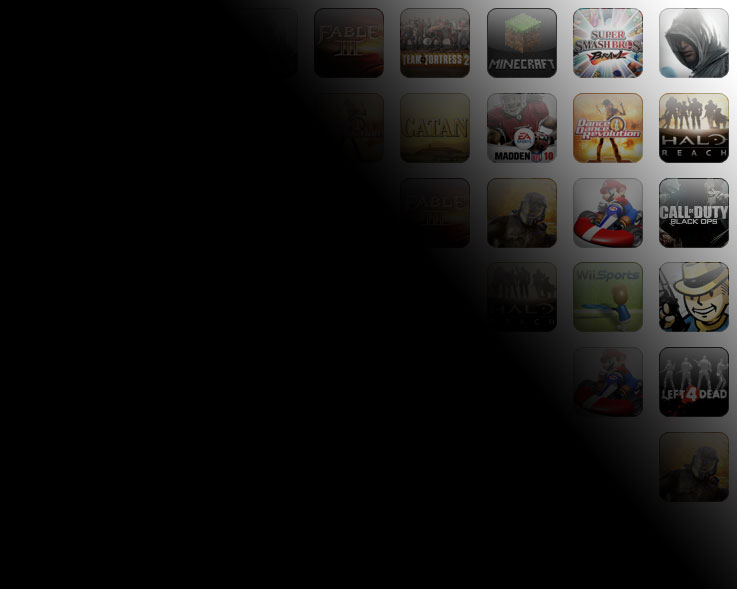
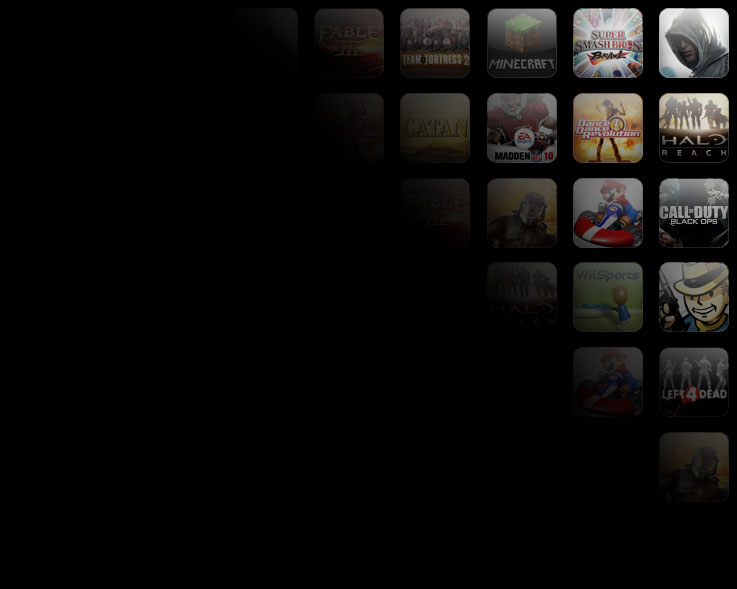
Continued work on play page
Integrated a better version of the game icons and continued work styling the play page.

Changed region(s): [[0.3745, 0.0, 1.0, 0.9474]]

diff --git a/play.html b/play.html
@@ -15,9 +15,10 @@
             </nav>
         </header>
         <div class="main" id="main-play">
-            <section>
+            <div id="game-img"></div>
+            <section>                
                 <h1>Come play games with us!</h1>
-                <p>Bring a small donation, and play games with us all night! We&#39ll provide consoles, computers, and some pizza -- you just have to show up. Don&#39t forget to bring some extra cash, cause we&#39ll be selling caffeinated beverages!</p>
+                <p id="playsec1">Bring a small donation, and play games with us all night! We&#39ll provide consoles, computers, and some pizza -- you just have to show up. Don&#39t forget to bring some extra cash, cause we&#39ll be selling caffeinated beverages!</p>
 
                 <time>5:00pm <a href="#">November 11th</a> - 5:00pm <a href="#">November 12th</a></time>
 
@@ -25,9 +26,9 @@
                 Grand Rapids MI, 49503<br /> 
                     <a class="special" href="#">View map</a></address>
                 <h1>Under 18?</h1>
-                <p>Please print out <a class="special" href="#">this PDF form</a> and have your parents fill it out!</p>
+                <p id="playsec2">Please print out <a class="special" href="#">this PDF form</a> and have your parents fill it out!</p>
                 <h1>Let us know when you’re coming:</h1>
-                <p>If you can fill out this form, we&#39ll know how much pizza to buy and how many consoles to bring!</p>
+                <p id="playsec3">If you can fill out this form, we&#39ll know how much pizza to buy and how many consoles to bring!</p>
                 <form>                    
                     <table>
                         <tr>
@@ -122,7 +123,6 @@
                         </tr>
                     </table>
                 </form>
-                <div id="game-img"></div>
             </section>
             <div class="white"></div>
         </div>

diff --git a/styles/main.css b/styles/main.css
@@ -108,6 +108,10 @@ a {
 
 #main-play {
     
+    padding-top: 60px; 
+    padding-left: 20px; 
+    padding-right: 20px; 
+    padding-bottom: 20px;
 }
 
 .main{
@@ -132,7 +136,7 @@ a {
     
     border: 1px solid #ffffff40;
     border-radius: 10px;
-    z-index: -1;
+    z-index: -2;
 }
 
 #sec1 p{
@@ -186,6 +190,20 @@ a {
 
 table{
     background: #321000;
+    border: 1px solid #99771c;
+    border-radius: 5px;
+    margin: 0px;
+    width: 820px;
+    height: 350px;
+    border-spacing: 20px;
+}
+
+table h1{
+    font-family: "Helvetica", "Arial", sans-serif;
+    font-style: normal;
+    font-size: 14px;
+    font-weight: bold;
+    color: #9ad2ff;
 }
 
 select, input {
@@ -208,4 +226,43 @@ select, input {
 #submit:hover{
     background-position: right top;
     background-position: 79px 0px;
+}
+
+tr, th{
+    padding:0px;
+    margin: 0px;
+}
+
+th{
+    border-top: 1px dashed #fff;
+}
+
+tr:first-child th{
+    border: none;
+}
+
+address{
+    margin-bottom: 63px;
+    margin-top: 30px;
+}
+
+#playsec1{
+    width: 375px;
+    margin-bottom: 30px;
+}
+
+#playsec2{
+    margin-bottom: 63px;
+}
+
+#playsec3{
+    
+}
+#game-img {
+    width: 737px;
+    height: 589px;
+    background: url(../img/game-icons.png);
+    position: absolute;
+    right: 10px;
+    top: 10px;
 }
